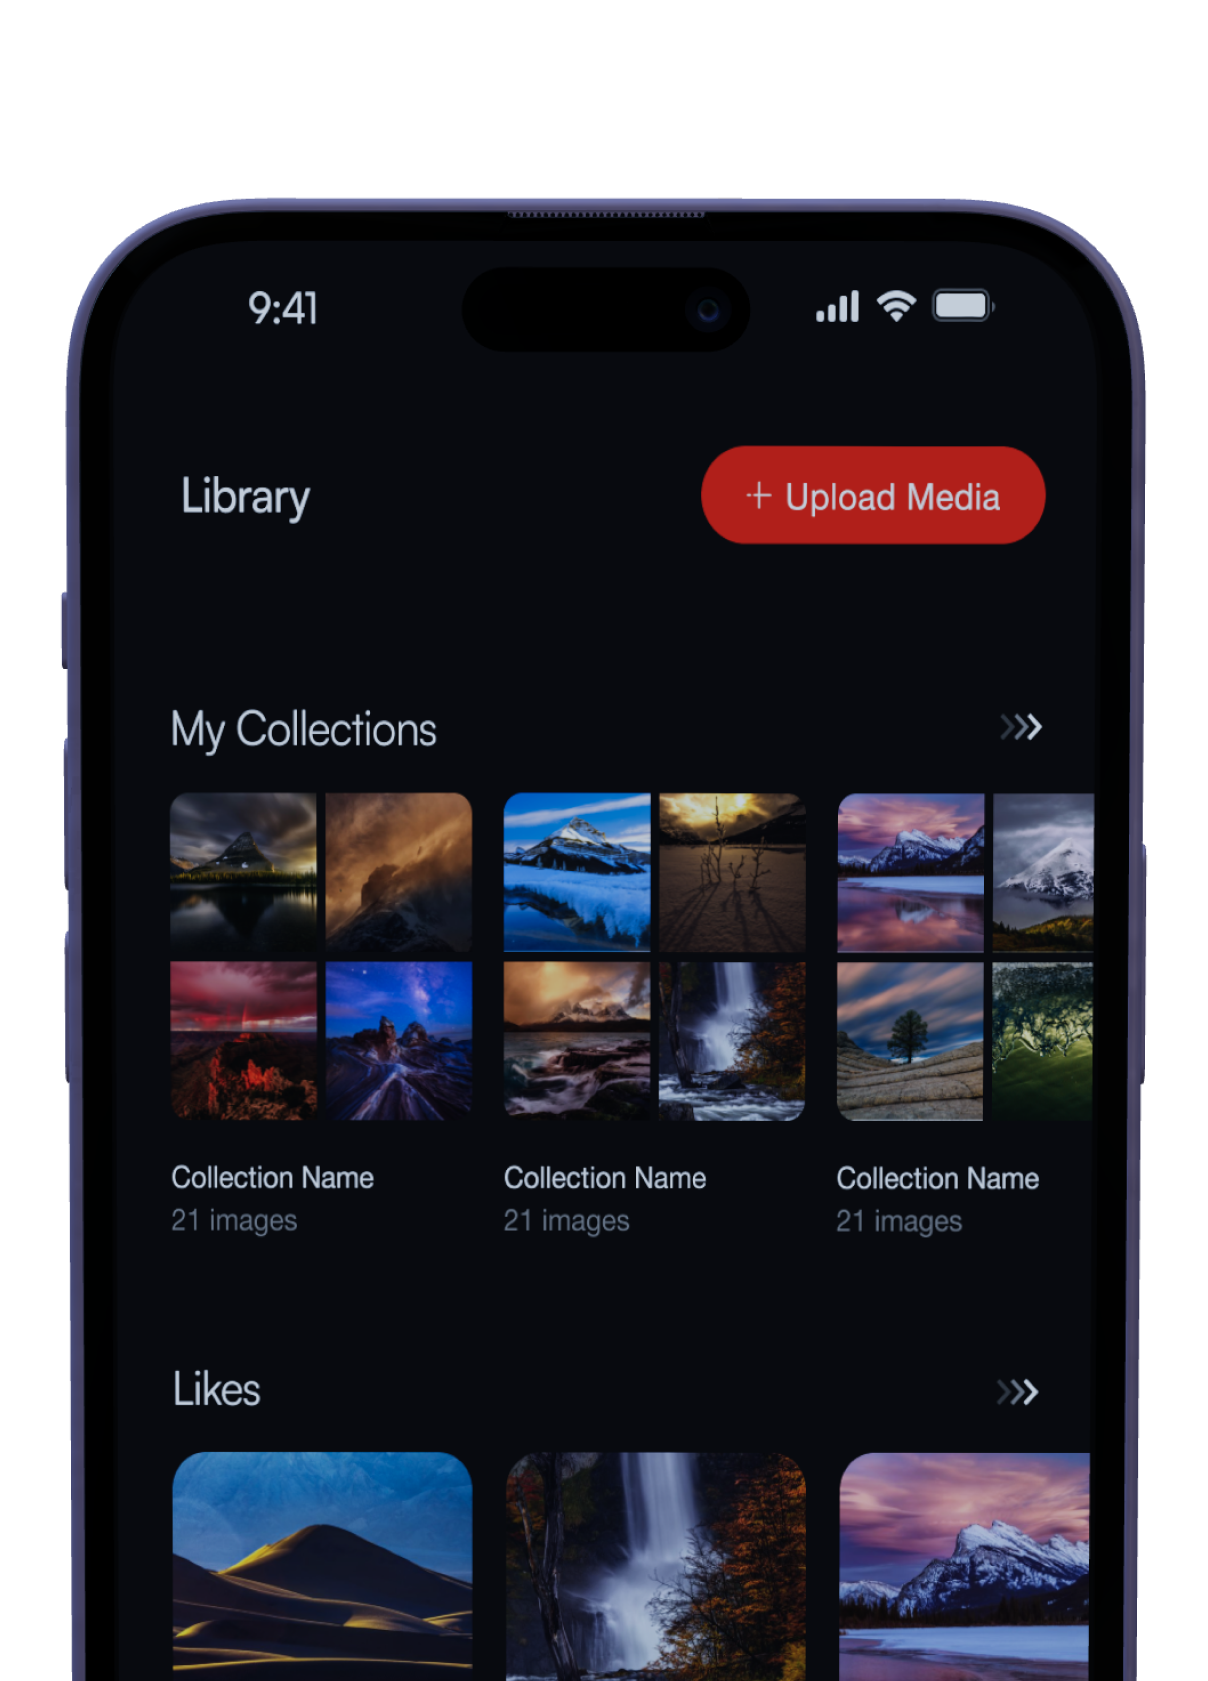
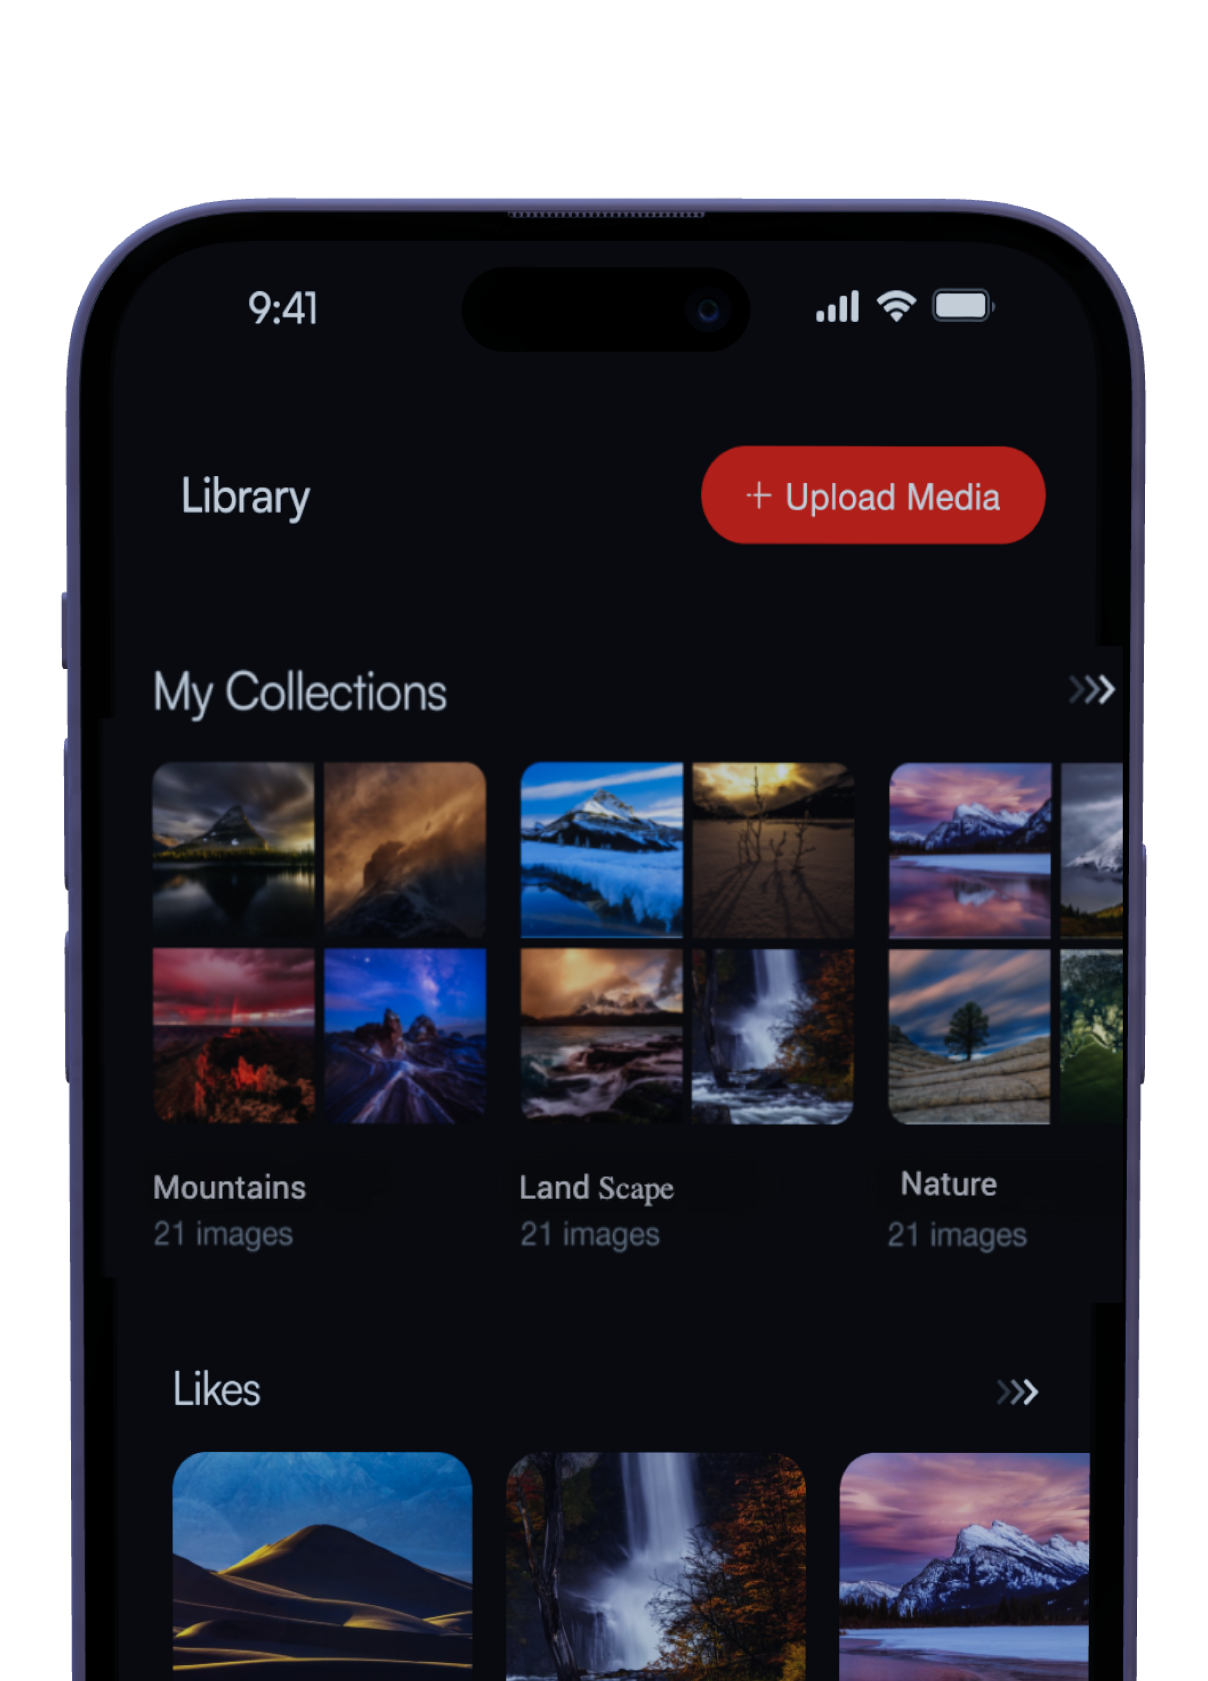
collection name change images

Changed region(s): [[0.1225, 0.4021, 0.9495, 0.7424]]

diff --git a/privacy-policy.html b/privacy-policy.html
@@ -186,6 +186,8 @@
           please contact us at
           <a href="mailto:support@pixlme.com">support@pixlme.com</a>.
         </p>
+        <p><strong>Content Policy:</strong> No AI-generated images are accepted on PiXL Me. All uploaded artwork must be original and created by the artist.</p>
+
         <p>
           By using PiXL Me, you acknowledge that you have read, understood, and
           agree to this Privacy Policy. Thank you for trusting PiXL Me with your
@@ -194,7 +196,6 @@
       </div>
     </div>
 
-     <!-- Pricing Model -->
 <div id="pricing" class="model">
   <div class="model-content">
     <span class="close-button" onclick="closePricing()">×</span>
@@ -261,7 +262,7 @@
           <div class="f-linksec">
             <div class="f-heading">Quick Links</div>
             <a href="https://app.pixlme.com/" target="_blank">Login</a>
-            <a href="https://app.pixlme.com/" target="_blank">Sign Up</a>
+            <a href="https://app.pixlme.com/register" target="_blank">Sign Up</a>
           </div>
         </div>
         <div class="f-col2">

diff --git a/artists.html b/artists.html
@@ -546,7 +546,7 @@
               PiXL Me operates on a revenue-sharing model, allowing artists to
               monetize based on image downloads, popularity, and subscriber
               engagement. The more your artwork is streamed and enjoyed, the
-              greater your earnings potential.
+              greater your earnings potential. 50% of revenue allocated to artist pool.
             </div>
           </div>
           <div class="qaAccordion">
@@ -655,7 +655,7 @@
           <div class="f-linksec">
             <div class="f-heading">Quick Links</div>
             <a href="https://app.pixlme.com/" target="_blank">Login</a>
-            <a href="https://app.pixlme.com/" target="_blank">Sign Up</a>
+            <a href="https://app.pixlme.com/register" target="_blank">Sign Up</a>
           </div>
         </div>
         <div class="f-col2">

diff --git a/index.html b/index.html
@@ -1185,7 +1185,7 @@
           <div class="f-linksec">
             <div class="f-heading">Quick Links</div>
             <a href="https://app.pixlme.com/" target="_blank">Login</a>
-            <a href="https://app.pixlme.com/" target="_blank">Sign Up</a>
+            <a href="https://app.pixlme.com/register" target="_blank">Sign Up</a>
           </div>
         </div>
         <div class="f-col2">

diff --git a/customers.html b/customers.html
@@ -680,7 +680,7 @@
           <div class="f-linksec">
             <div class="f-heading">Quick Links</div>
             <a href="https://app.pixlme.com/" target="_blank">Login</a>
-            <a href="https://app.pixlme.com/" target="_blank">Sign Up</a>
+            <a href="https://app.pixlme.com/register/" target="_blank">Sign Up</a>
           </div>
         </div>
         <div class="f-col2">

diff --git a/licence-agreement.html b/licence-agreement.html
@@ -254,7 +254,7 @@
           <div class="f-linksec">
             <div class="f-heading">Quick Links</div>
             <a href="https://app.pixlme.com/" target="_blank">Login</a>
-            <a href="https://app.pixlme.com/" target="_blank">Sign Up</a>
+            <a href="https://app.pixlme.com/register" target="_blank">Sign Up</a>
           </div>
         </div>
         <div class="f-col2">

diff --git a/terms-and-conditions.html b/terms-and-conditions.html
@@ -255,7 +255,7 @@
           <div class="f-linksec">
             <div class="f-heading">Quick Links</div>
             <a href="https://app.pixlme.com/" target="_blank">Login</a>
-            <a href="https://app.pixlme.com/" target="_blank">Sign Up</a>
+            <a href="https://app.pixlme.com/register" target="_blank">Sign Up</a>
           </div>
         </div>
         <div class="f-col2">
